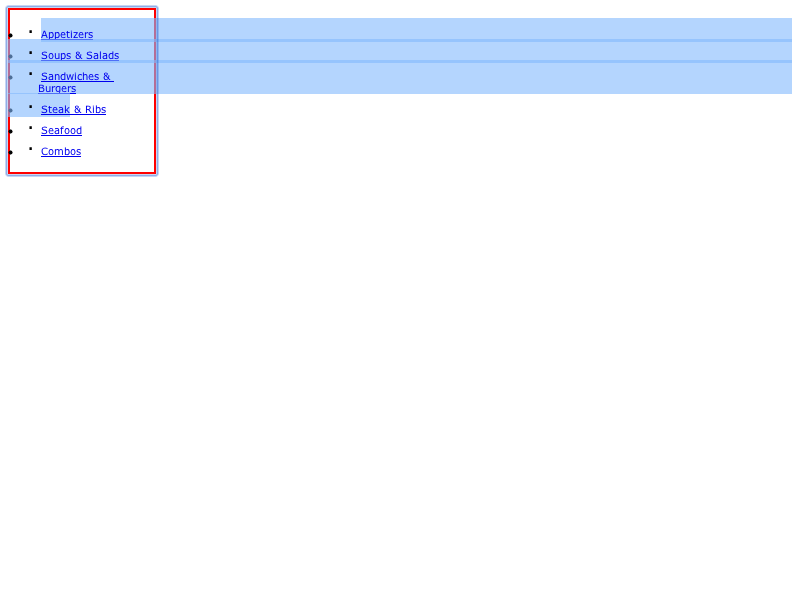
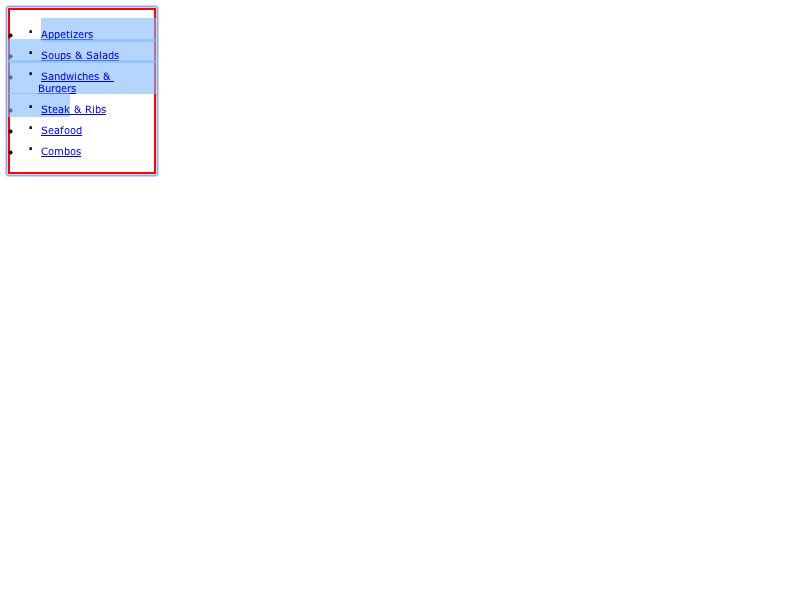
LayoutTests:
Reviewed by justin

        <http://bugzilla.opendarwin.org/show_bug.cgi?id=6933>
        Selection extends beyond focus ring for some contentEditable divs

        * editing/selection/extend-by-word-002-expected.checksum:
        * editing/selection/extend-by-word-002-expected.png:
        * editing/selection/select-all-001-expected.checksum:
        * editing/selection/select-all-001-expected.png:
        * editing/selection/select-all-002-expected.checksum:
        * editing/selection/select-all-002-expected.png:

WebCore:

        <http://bugzilla.opendarwin.org/show_bug.cgi?id=6933>
        Selection extends beyond focus ring for some contentEditable divs

        Reviewed by justin

        * rendering/RenderBlock.cpp:
        (WebCore::RenderBlock::isSelectionRoot): Have root editable elements paint their
        own selection gaps.

Identifier: 10966@main
git-svn-id: https://svn.webkit.org/repository/webkit/trunk@12986 268f45cc-cd09-0410-ab3c-d52691b4dbfc

Changed region(s): [[0.1875, 0.03, 1.0, 0.18]]

diff --git a/WebCore/rendering/RenderBlock.cpp b/WebCore/rendering/RenderBlock.cpp
@@ -1427,9 +1427,24 @@ bool RenderBlock::shouldPaintSelectionGaps() const
 
 bool RenderBlock::isSelectionRoot() const
 {
+    if (!element())
+        return false;
+        
     // FIXME: Eventually tables should have to learn how to fill gaps between cells, at least in simple non-spanning cases.
-    return (isBody() || isRoot() || hasOverflowClip() || isRelPositioned() ||
-            isFloatingOrPositioned() || isTableCell() || isInlineBlockOrInlineTable());
+    if (isTable())
+        return false;
+        
+    if (isBody() || isRoot() || hasOverflowClip() || isRelPositioned() ||
+        isFloatingOrPositioned() || isTableCell() || isInlineBlockOrInlineTable())
+        return true;
+    
+    if (canvas() && canvas()->selectionStart()) {
+        NodeImpl* startElement = canvas()->selectionStart()->element();
+        if (startElement && startElement->rootEditableElement() == element())
+            return true;
+    }
+    
+    return false;
 }
 
 GapRects RenderBlock::selectionGapRects()
